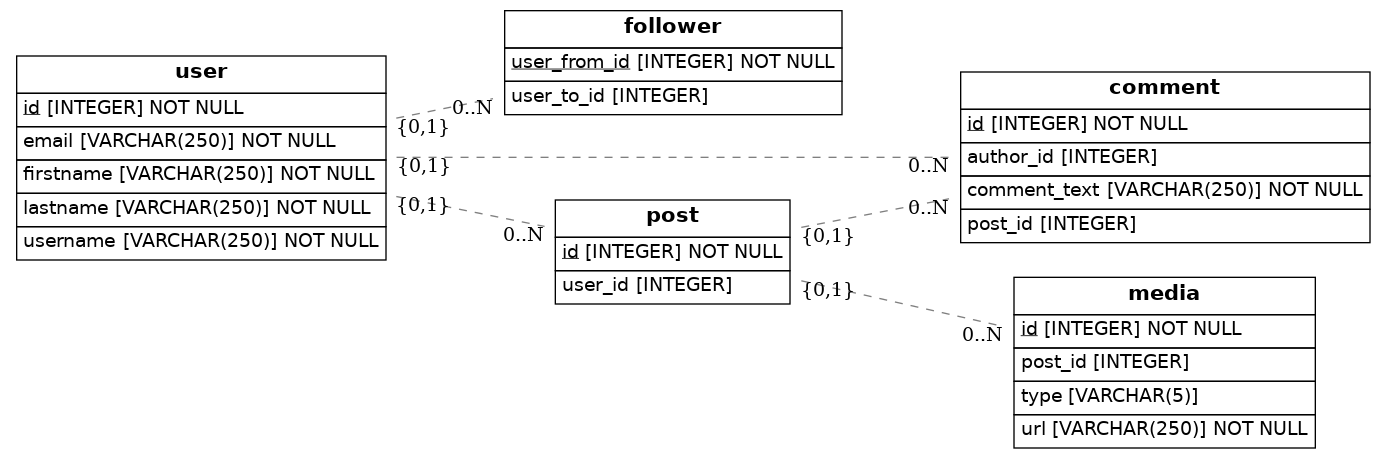
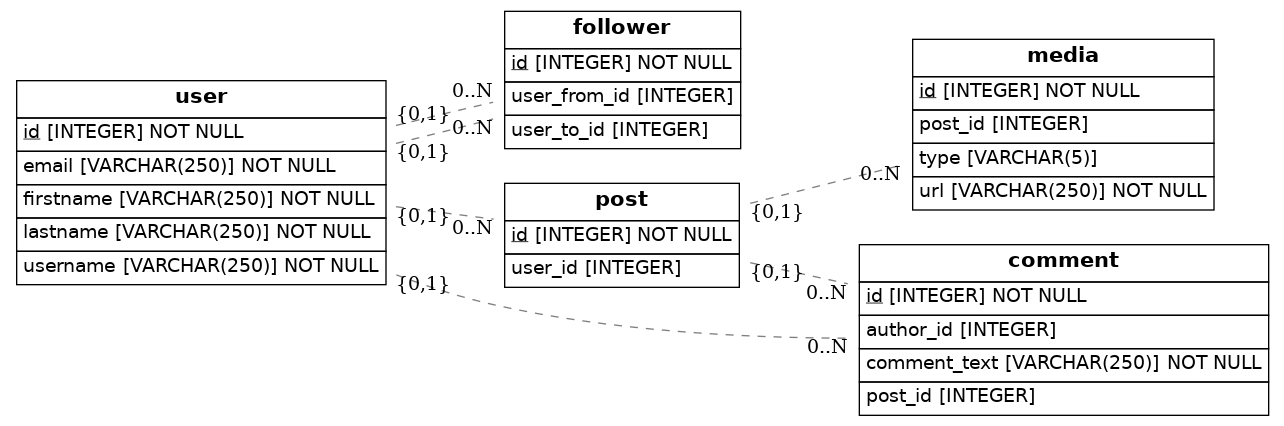
Relationships hechas

Changed region(s): [[0.0, 0.0, 0.9969, 0.9765], [0.2492, 0.1221, 0.2804, 0.1526], [0.0, 0.1221, 0.0312, 0.1526]]

diff --git a/src/models.py b/src/models.py
@@ -7,11 +7,6 @@ from eralchemy2 import render_er
 
 Base = declarative_base()
 
-class Follower(Base):
-    __tablename__ = 'follower'
-    user_from_id= Column(Integer, primary_key=True)
-    user_to_id= Column(Integer, ForeignKey('user.id'))
-
 class User(Base):
     __tablename__ = 'user'
     id = Column(Integer, primary_key=True)
@@ -20,17 +15,28 @@ class User(Base):
     lastname= Column(String(250), nullable=False)
     email= Column(String(250), nullable=False)
 
+class Follower(Base):
+    __tablename__ = 'follower'
+    id= Column(Integer, primary_key=True)
+    user_from_id= Column(Integer, ForeignKey('user.id'))
+    user_to_id= Column(Integer, ForeignKey('user.id'))
+    user= relationship(User)
+
+class Post(Base):
+    __tablename__ = 'post'
+    id = Column(Integer, primary_key=True)
+    user_id= Column(Integer, ForeignKey('user.id'))
+    user= relationship(User)
+
 class Comment(Base):
     __tablename__ = 'comment'
     id = Column(Integer, primary_key=True)
     comment_text= Column(String(250), nullable=False)
     author_id= Column(Integer, ForeignKey('user.id'))
     post_id= Column(Integer, ForeignKey('post.id'))
+    user= relationship(User)
+    post= relationship(Post)
 
-class Post(Base):
-    __tablename__ = 'post'
-    id = Column(Integer, primary_key=True)
-    user_id= Column(Integer, ForeignKey('user.id'))
 
 class Media(Base):
     __tablename__ = 'media'
@@ -38,17 +44,9 @@ class Media(Base):
     type= Column(Enum('image','video','audio',name='media_types'))
     url= Column(String(250), nullable=False)
     post_id= Column(Integer, ForeignKey('post.id'))
+    post= relationship(Post)
 
-class Address(Base):
-    __tablename__ = 'address'
-    # Here we define columns for the table address.
-    # Notice that each column is also a normal Python instance attribute.
-    id = Column(Integer, primary_key=True)
-    street_name = Column(String(250))
-    street_number = Column(String(250))
-    post_code = Column(String(250), nullable=False)
-    person_id = Column(Integer, ForeignKey('person.id'))
-    person = relationship(Person)
+
 
     def to_dict(self):
         return {}
